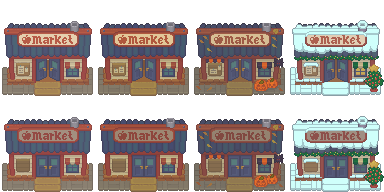
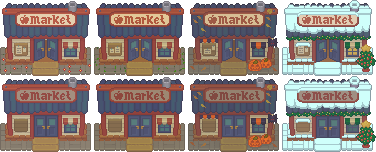
Dodau market 3D rendiranje, updatanje, hitbox, interaction option k pac nc ne nardi

diff --git a/SFML_RPG/GameState.cpp b/SFML_RPG/GameState.cpp
@@ -91,11 +91,18 @@ void GameState::initTextures(){
 		throw "ERROR::GAME_STATE::COULD_NOT_LOAD_Farmland_TEXTURE";
 	}
 	if (!this->textures["CarrotPlant"].loadFromFile("Resources/Images/Mixed/crops_all.png", sf::IntRect(sf::Vector2i(128, 0), sf::Vector2i(80, 16)))) {
-		throw "ERROR::GAME_STATE::COULD_NOT_LOAD_Farmland_TEXTURE";
+		throw "ERROR::GAME_STATE::COULD_NOT_LOAD_CarrotPlant_TEXTURE";
 	}
 	if (!this->textures["CarrotPlantPosible"].loadFromFile("Resources/Images/Mixed/crops_all.png", sf::IntRect(sf::Vector2i(128, 0), sf::Vector2i(16, 16)))) {
-		throw "ERROR::GAME_STATE::COULD_NOT_LOAD_Farmland_TEXTURE";
+		throw "ERROR::GAME_STATE::COULD_NOT_LOAD_CarrotPlantPossible_TEXTURE";
 	}
+	if (!this->textures["Market"].loadFromFile("Resources/Images/Buildings/market.png")) {
+		throw "ERROR::GAME_STATE::COULD_NOT_LOAD_Market_TEXTURE";
+	}
+}
+
+void GameState::initMarket(){
+	this->market = new Market(&this->textures["Market"], sf::Vector2f(100.f, 100.f));
 }
 
 void GameState::initPauseMenu(){
@@ -500,17 +507,11 @@ GameState::GameState(StateData* state_data,Game*game, unsigned short save) : Sta
 	this->initTileMap();
 	this->initInGameTimers();
 	this->initSystems();
-	/*
-	this->theme.openFromFile("Resources/Audio/themeSong2.wav");
-	this->theme.setPitch(1.f);
-	this->theme.setVolume(40.f);
-	this->theme.setLoop(true);
-	this->theme.play();*/
 	this->isInventoryOpen = false;
-	//this->player->getInventory()->makeInventoryTexture(this->stateData->gfxSettings->resolution);
 	this->playerGUI->updateINV(this->mousePosWindow); //sam enkrat rabm za hb kazat
 	this->hasItemInHand = false;
 	this->lastMouseStateR = false;
+	this->initMarket();
 }
 
 GameState::~GameState(){
@@ -680,17 +681,26 @@ void GameState::updatePlayerInput(const float & dt){
 	if (sf::Keyboard::isKeyPressed(sf::Keyboard::Key(this->keybinds.at("PICKUP"))) &&
 		this->keybindsTimes.at("PICKUP").getElapsedTime().asSeconds() >= this->keyTimeMax) {
 		this->keybindsTimes.at("PICKUP").restart(); //da ne spemas
-		auto it = this->buildings["carrotPlant"].begin(); // Get the iterator to the beginning of the map
-		while (it != this->buildings["carrotPlant"].end()) { // Iterate through the map
-			CarrotPlant* tmp = static_cast<CarrotPlant*>(it->second);
-			if (tmp->isPickable(this->player) && !this->player->getInventory()->isFull()) {
-				delete it->second; // Delete the object
-				it = this->buildings["carrotPlant"].erase(it); // Remove the element from the map and advance the iterator
-				addCarrots();
+		//prever za market ==================
+		if (this->market->isInteractable(this->player)) {
+			std::cout << "Dela interaction" << std::endl;
+		}
+		// =============================
+		else {
+			//prever za pobrat carrote =======================================
+			auto it = this->buildings["carrotPlant"].begin(); // Get the iterator to the beginning of the map
+			while (it != this->buildings["carrotPlant"].end()) { // Iterate through the map
+				CarrotPlant* tmp = static_cast<CarrotPlant*>(it->second);
+				if (tmp->isPickable(this->player) && !this->player->getInventory()->isFull()) {
+					delete it->second; // Delete the object
+					it = this->buildings["carrotPlant"].erase(it); // Remove the element from the map and advance the iterator
+					addCarrots();
+				}
+				else {
+					++it; // Move to the next element in the map
+				}
 			}
-			else {
-				++it; // Move to the next element in the map
-			}
+			//======================================
 		}
 	}
 }
@@ -908,6 +918,7 @@ void GameState::updateBuildingsColl(const float& dt){
 			value.second->checkCollisionPlayer(this->player, dt);
 		}
 	}
+	this->market->checkCollisionPlayer(this->player, dt);
 }
 
 void GameState::updateBuildings(){
@@ -916,6 +927,7 @@ void GameState::updateBuildings(){
 			value.second->update();
 		}
 	}
+	this->market->update(static_cast<int>(this->currentSeason), this->isDay, this->player);
 }
 
 void GameState::update(const float& dt){
@@ -1006,6 +1018,7 @@ void GameState::render(sf::RenderTarget* target){
 	for (const auto& value : this->buildings["carrotPlant"]) {
 		value.second->render(&this->renderTexture);
 	}
+	if(!this->market->checkIfPlayerBehind(this->player))this->market->render(&this->renderTexture);
 
 	//==============================================
 
@@ -1021,6 +1034,8 @@ void GameState::render(sf::RenderTarget* target){
 	this->player->render(this->renderTexture, this->isDay ? &this->temp : &this->core_shader, this->player->getCenter(), false); // ta zadna je za rendiranje hitboxa k je debug sam
 
 	this->tts->render(this->renderTexture);
+
+	if (this->market->checkIfPlayerBehind(this->player))this->market->render(&this->renderTexture);
 
 	//Rendera GUI
 	this->renderTexture.setView(this->renderTexture.getDefaultView());

diff --git a/SFML_RPG/Market.cpp b/SFML_RPG/Market.cpp
@@ -1,2 +1,130 @@
 #include "stdafx.h"
 #include "Market.h"
+
+
+
+void Market::initHitbox(){
+	sf::RectangleShape* hitbox = this->getHitbox();
+	sf::Vector2f temp = this->getPos();
+	temp.y += 47.f;
+	hitbox->setPosition(temp);
+	hitbox->setSize(sf::Vector2f(94.f, 29.f));
+	hitbox->setFillColor(sf::Color::Transparent);
+	//hitbox->setOutlineThickness(1.f); //debug
+	//hitbox->setOutlineColor(sf::Color::Red);
+}
+
+void Market::initTextureRect(){
+	this->textureRect.width = 94;
+	this->textureRect.height = 76;
+	this->textureRect.left = 0;
+	this->textureRect.top = 0;
+}
+
+void Market::initInteractZone(){
+	//std::cout << "Hello" << std::endl;
+	this->interactZone = sf::RectangleShape(*this->getHitbox());
+	sf::Vector2f size = this->interactZone.getSize();
+	sf::Vector2f pos = this->interactZone.getPosition();
+	size.x += 20.f;
+	size.y += 20.f;
+	pos.x -= 10.f;
+	pos.y -= 10.f;
+	this->interactZone.setSize(size);
+	this->interactZone.setPosition(pos);
+	this->interactZone.setOutlineColor(sf::Color::Red); //DEBUG
+	this->interactZone.setOutlineThickness(1.f);
+}
+
+bool Market::checkIfPlayerBehind(Player* player){
+	sf::Vector2f playerPos = player->getPosition();
+	sf::Vector2f posHb = this->getHitbox()->getPosition();
+	sf::Vector2f sizeHb = this->getHitbox()->getSize();
+	if (playerPos.y < posHb.y) {
+		//ce je player nad tm hitboxom
+		if (playerPos.x < posHb.x + sizeHb.x) {
+			//prever da je desna stran notr
+			if (playerPos.x + 15.f > posHb.x) {
+				return true;
+			}
+		}
+	}
+	return false;
+}
+
+bool Market::isInteractable(Player* player){
+	sf::FloatRect playerPos = player->getGlobalBounds();
+	sf::FloatRect pos = this->interactZone.getGlobalBounds();
+	if (pos.intersects(playerPos)) {
+		return true;
+	}
+	return false;
+}
+
+Market::Market(sf::Texture* texture, sf::Vector2f pos) :
+	Building(texture,pos,sf::Vector2f(94.f,76.f),"Market",sf::RectangleShape(),true) {
+	this->initHitbox();
+	this->initTextureRect();
+	this->initInteractZone();
+}
+
+Market::~Market(){
+
+}
+
+void Market::updateTextureRect(int season, bool day, Player* player){
+	sf::RectangleShape* hitbox = this->getHitbox();
+	sf::Vector2f size = hitbox->getSize();
+	if (day) {
+		this->textureRect.top = 0;
+	}
+	else {
+		this->textureRect.top = this->textureRect.height;
+	}
+	switch (season){
+	case 1:
+		this->textureRect.left = 0;
+		size.x = 91.f;
+		break;
+	case 2:
+		this->textureRect.left = this->textureRect.width;
+		size.x = 91.f;
+		break;
+	case 3:
+		this->textureRect.left = this->textureRect.width*2;
+		size.x = 91.f;
+		break;
+	case 4:
+		this->textureRect.left = this->textureRect.width*3;
+		size.x = 94.f;
+		break;
+	default:
+		break;
+	}
+	hitbox->setSize(size);
+	if (this->checkIfPlayerBehind(player)) {
+		this->renderRect.setFillColor(sf::Color(255, 255, 255, 150));
+	}
+	else {
+		this->renderRect.setFillColor(sf::Color(255, 255, 255, 255));
+	}
+}
+
+void Market::update(int season, bool day, Player* player){
+	this->updateTextureRect(season, day,player);
+	this->renderRect.setTextureRect(this->textureRect);
+}
+
+void Market::render(sf::RenderTarget* target) {
+	//target->draw(*this->getHitbox());
+	target->draw(this->interactZone);
+	Building::render(target);
+}
+
+void Market::saveToFile(std::string file){
+	//ne rabm kr je zmer na istmu mestu in se nc ne spreminja more bit pa deklerirana zarad abstraktou
+}
+
+void Market::loadFromFile(std::string file){
+	//ne rabm kr je zmer na istmu mestu in se nc ne spreminja more bit pa deklerirana zarad abstraktou
+}

diff --git a/SFML_RPG/Market.h b/SFML_RPG/Market.h
@@ -1,6 +1,29 @@
 #pragma once
-#include "Building.h"
-class Market : public Building{
+#include "Buildings.h"
 
+
+class Market : public Building{
+private:
+
+	sf::RectangleShape interactZone;
+	sf::IntRect textureRect;
+
+	void initHitbox();
+	void initTextureRect();
+	void initInteractZone();
+public:
+	Market(sf::Texture* texture, sf::Vector2f pos);
+	~Market();
+
+	bool checkIfPlayerBehind(Player* player);
+	bool isInteractable(Player* player);
+
+	void updateTextureRect(int season, bool day,Player* player);
+
+	void update(int season, bool day, Player* player);
+	void render(sf::RenderTarget* target);
+
+	void saveToFile(std::string file);
+	void loadFromFile(std::string file);
 };
 

diff --git a/SFML_RPG/GameState.h b/SFML_RPG/GameState.h
@@ -9,6 +9,7 @@
 #include "Buildings.h"
 
 class Game;
+class Market;
 
 enum letniCasi {
 	pomlad = 1, // 12 ur dneva
@@ -50,6 +51,7 @@ private:
 
 	//buildings
 	std::map<std::string, std::map<int, Building*>> buildings;
+	Market* market;
 
 	bool hasItemInHand;
 	std::string iteminHand;
@@ -108,6 +110,8 @@ private:
 
 	void initInGameTime();
 	void initInGameTimers();
+
+	void initMarket();
 
 	//funkcije za nalaganje iz shrambe
 	void loadFromSave_misc();

diff --git a/SFML_RPG/CarrotPlant.cpp b/SFML_RPG/CarrotPlant.cpp
@@ -64,7 +64,7 @@ void CarrotPlant::update(){
 }
 
 void CarrotPlant::render(sf::RenderTarget* target){
-	if(static_cast<int>(this->growStage) == 4)target->draw(this->interactZone); //DEBUG
+	//if(static_cast<int>(this->growStage) == 4)target->draw(this->interactZone); //DEBUG
 	this->renderRect.setTextureRect(this->textureRect);
 	Building::render(target);
 }

diff --git a/SFML_RPG/Building.cpp b/SFML_RPG/Building.cpp
@@ -28,6 +28,10 @@ std::string Building::getType(){
 	return this->type;
 }
 
+sf::RectangleShape* Building::getHitbox(){
+	return this->hasHitBox ? &this->hitbox : nullptr;
+}
+
 void Building::setPos(sf::Vector2f pos){
 	this->renderRect.setPosition(pos);
 }

diff --git a/SFML_RPG/Building.h b/SFML_RPG/Building.h
@@ -21,6 +21,8 @@ public:
 	sf::Vector2f getPos();
 	std::string getType();
 
+	sf::RectangleShape* getHitbox();
+
 	void setPos(sf::Vector2f pos);
 
 	void checkCollisionPlayer(Entity* player, const float& dt);

diff --git a/SFML_RPG/Buildings.h b/SFML_RPG/Buildings.h
@@ -4,5 +4,6 @@
 
 #include "Farmland.h"
 
+#include "Market.h"
 
 #include "CarrotPlant.h"
